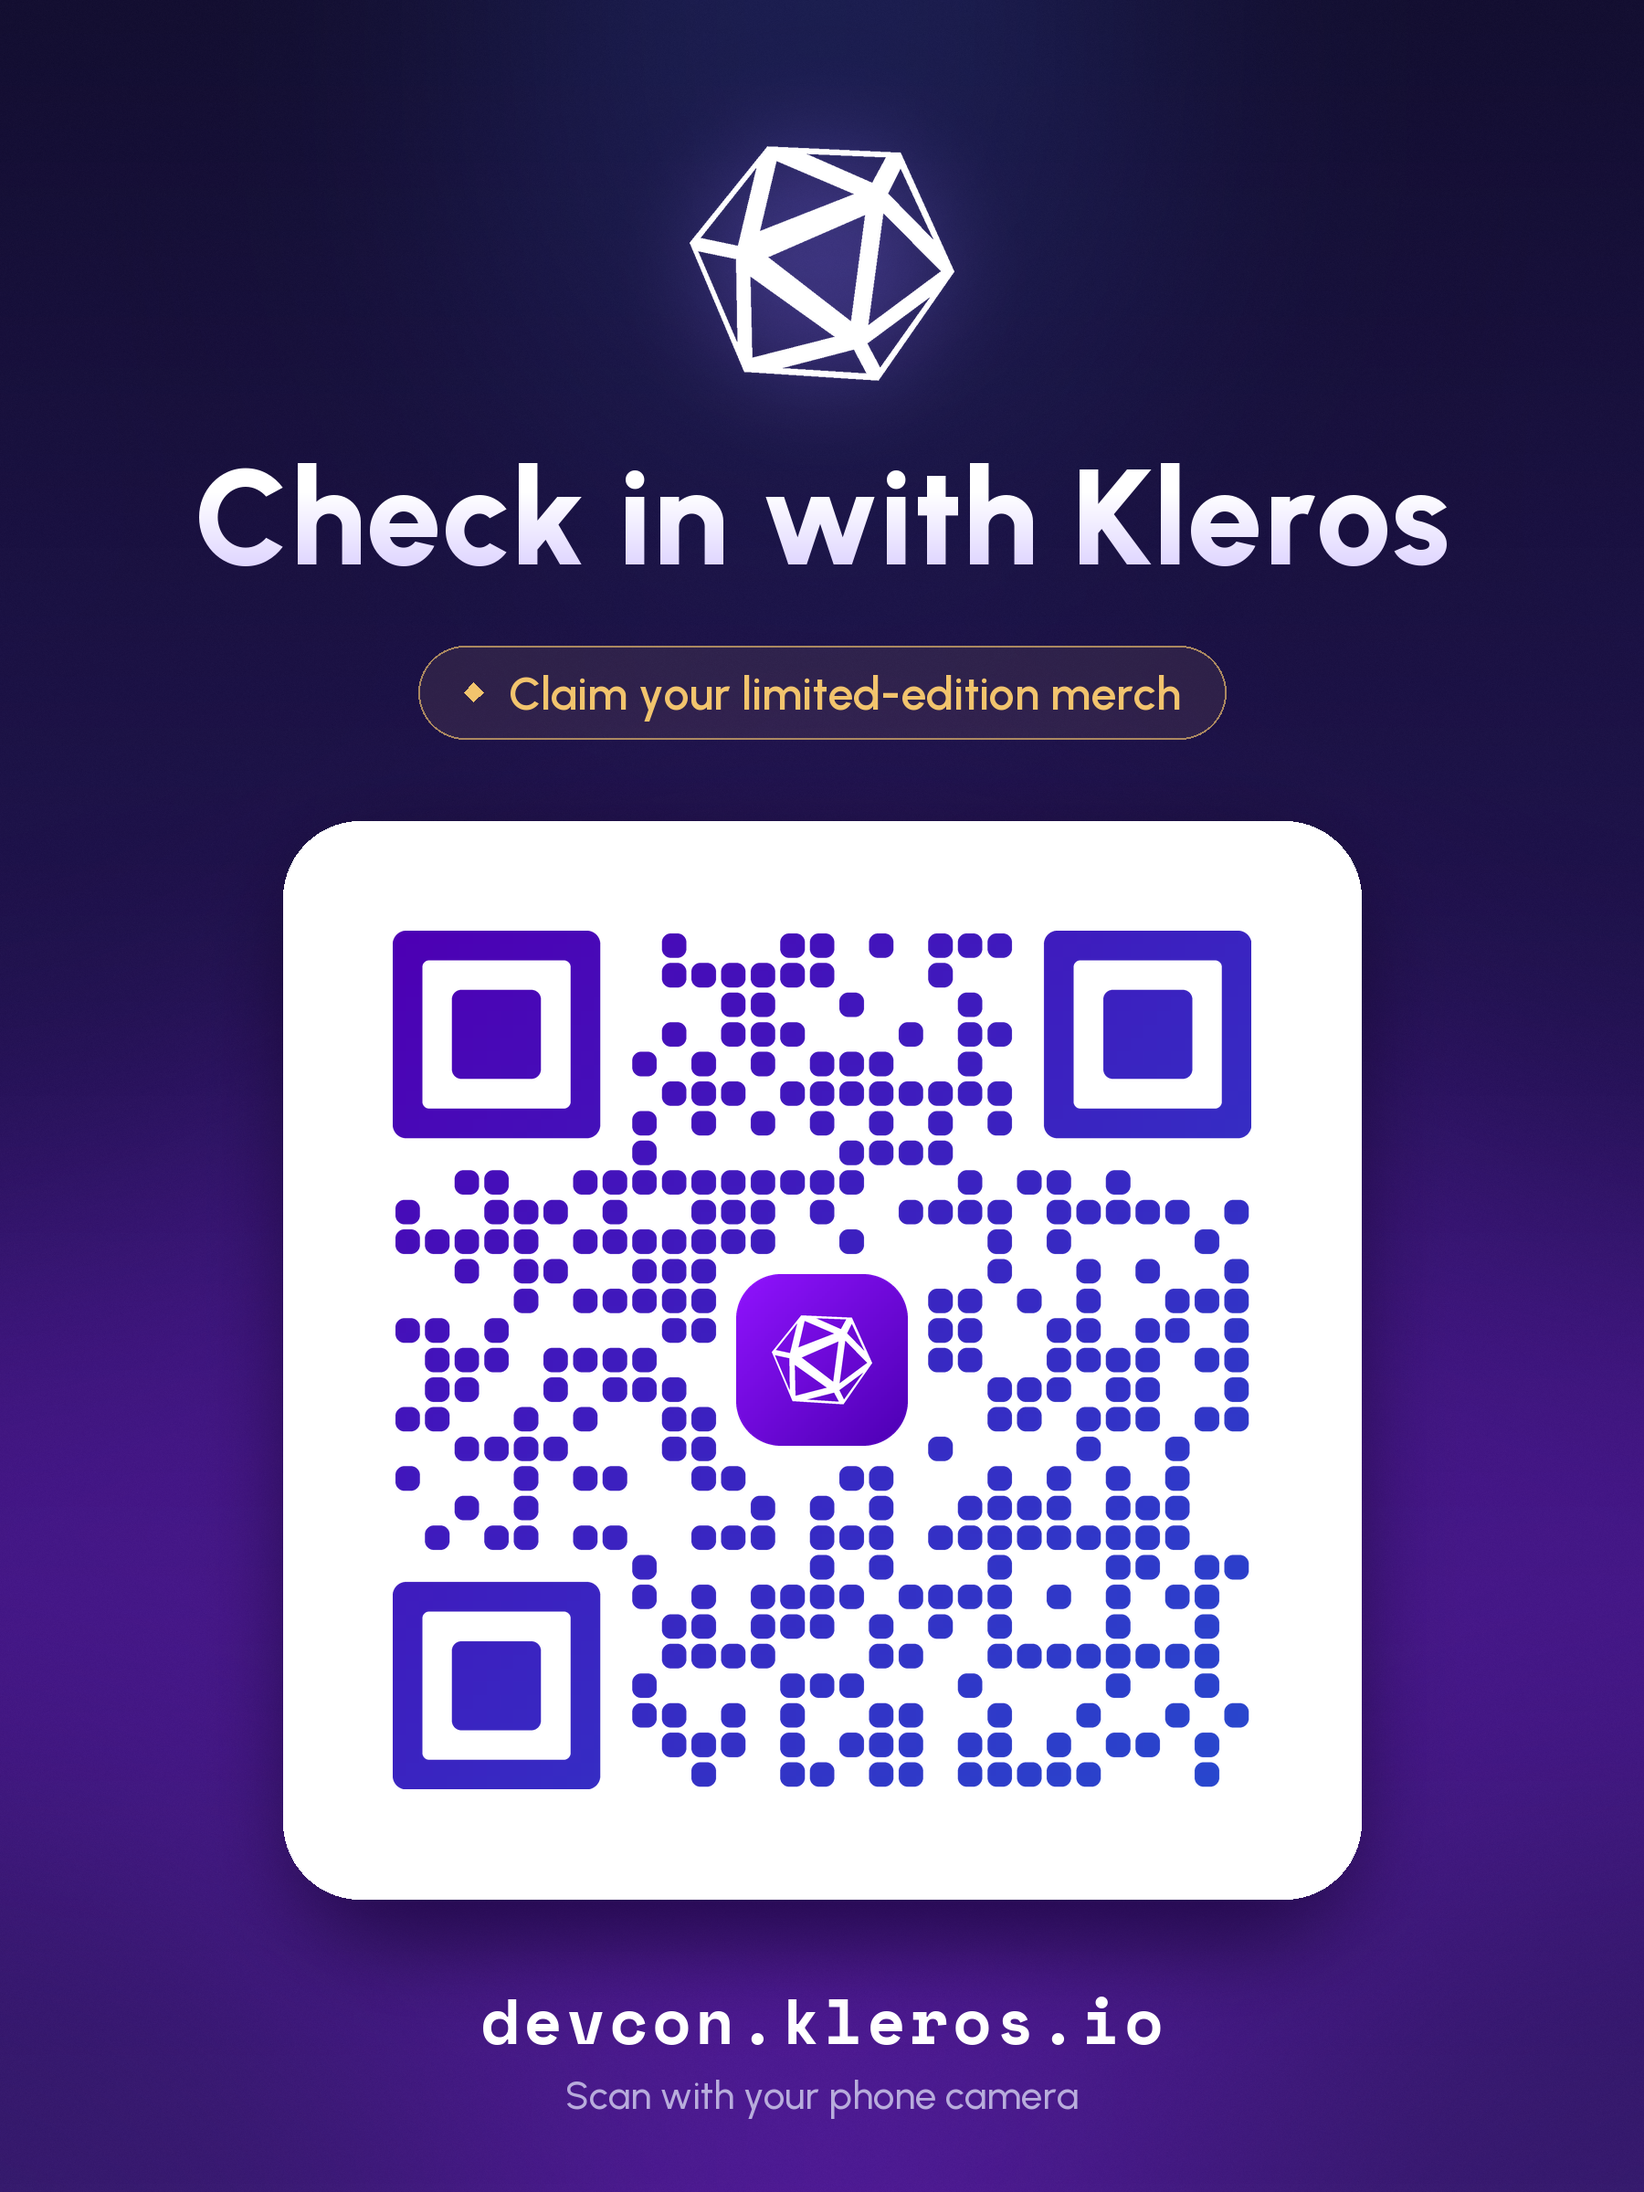
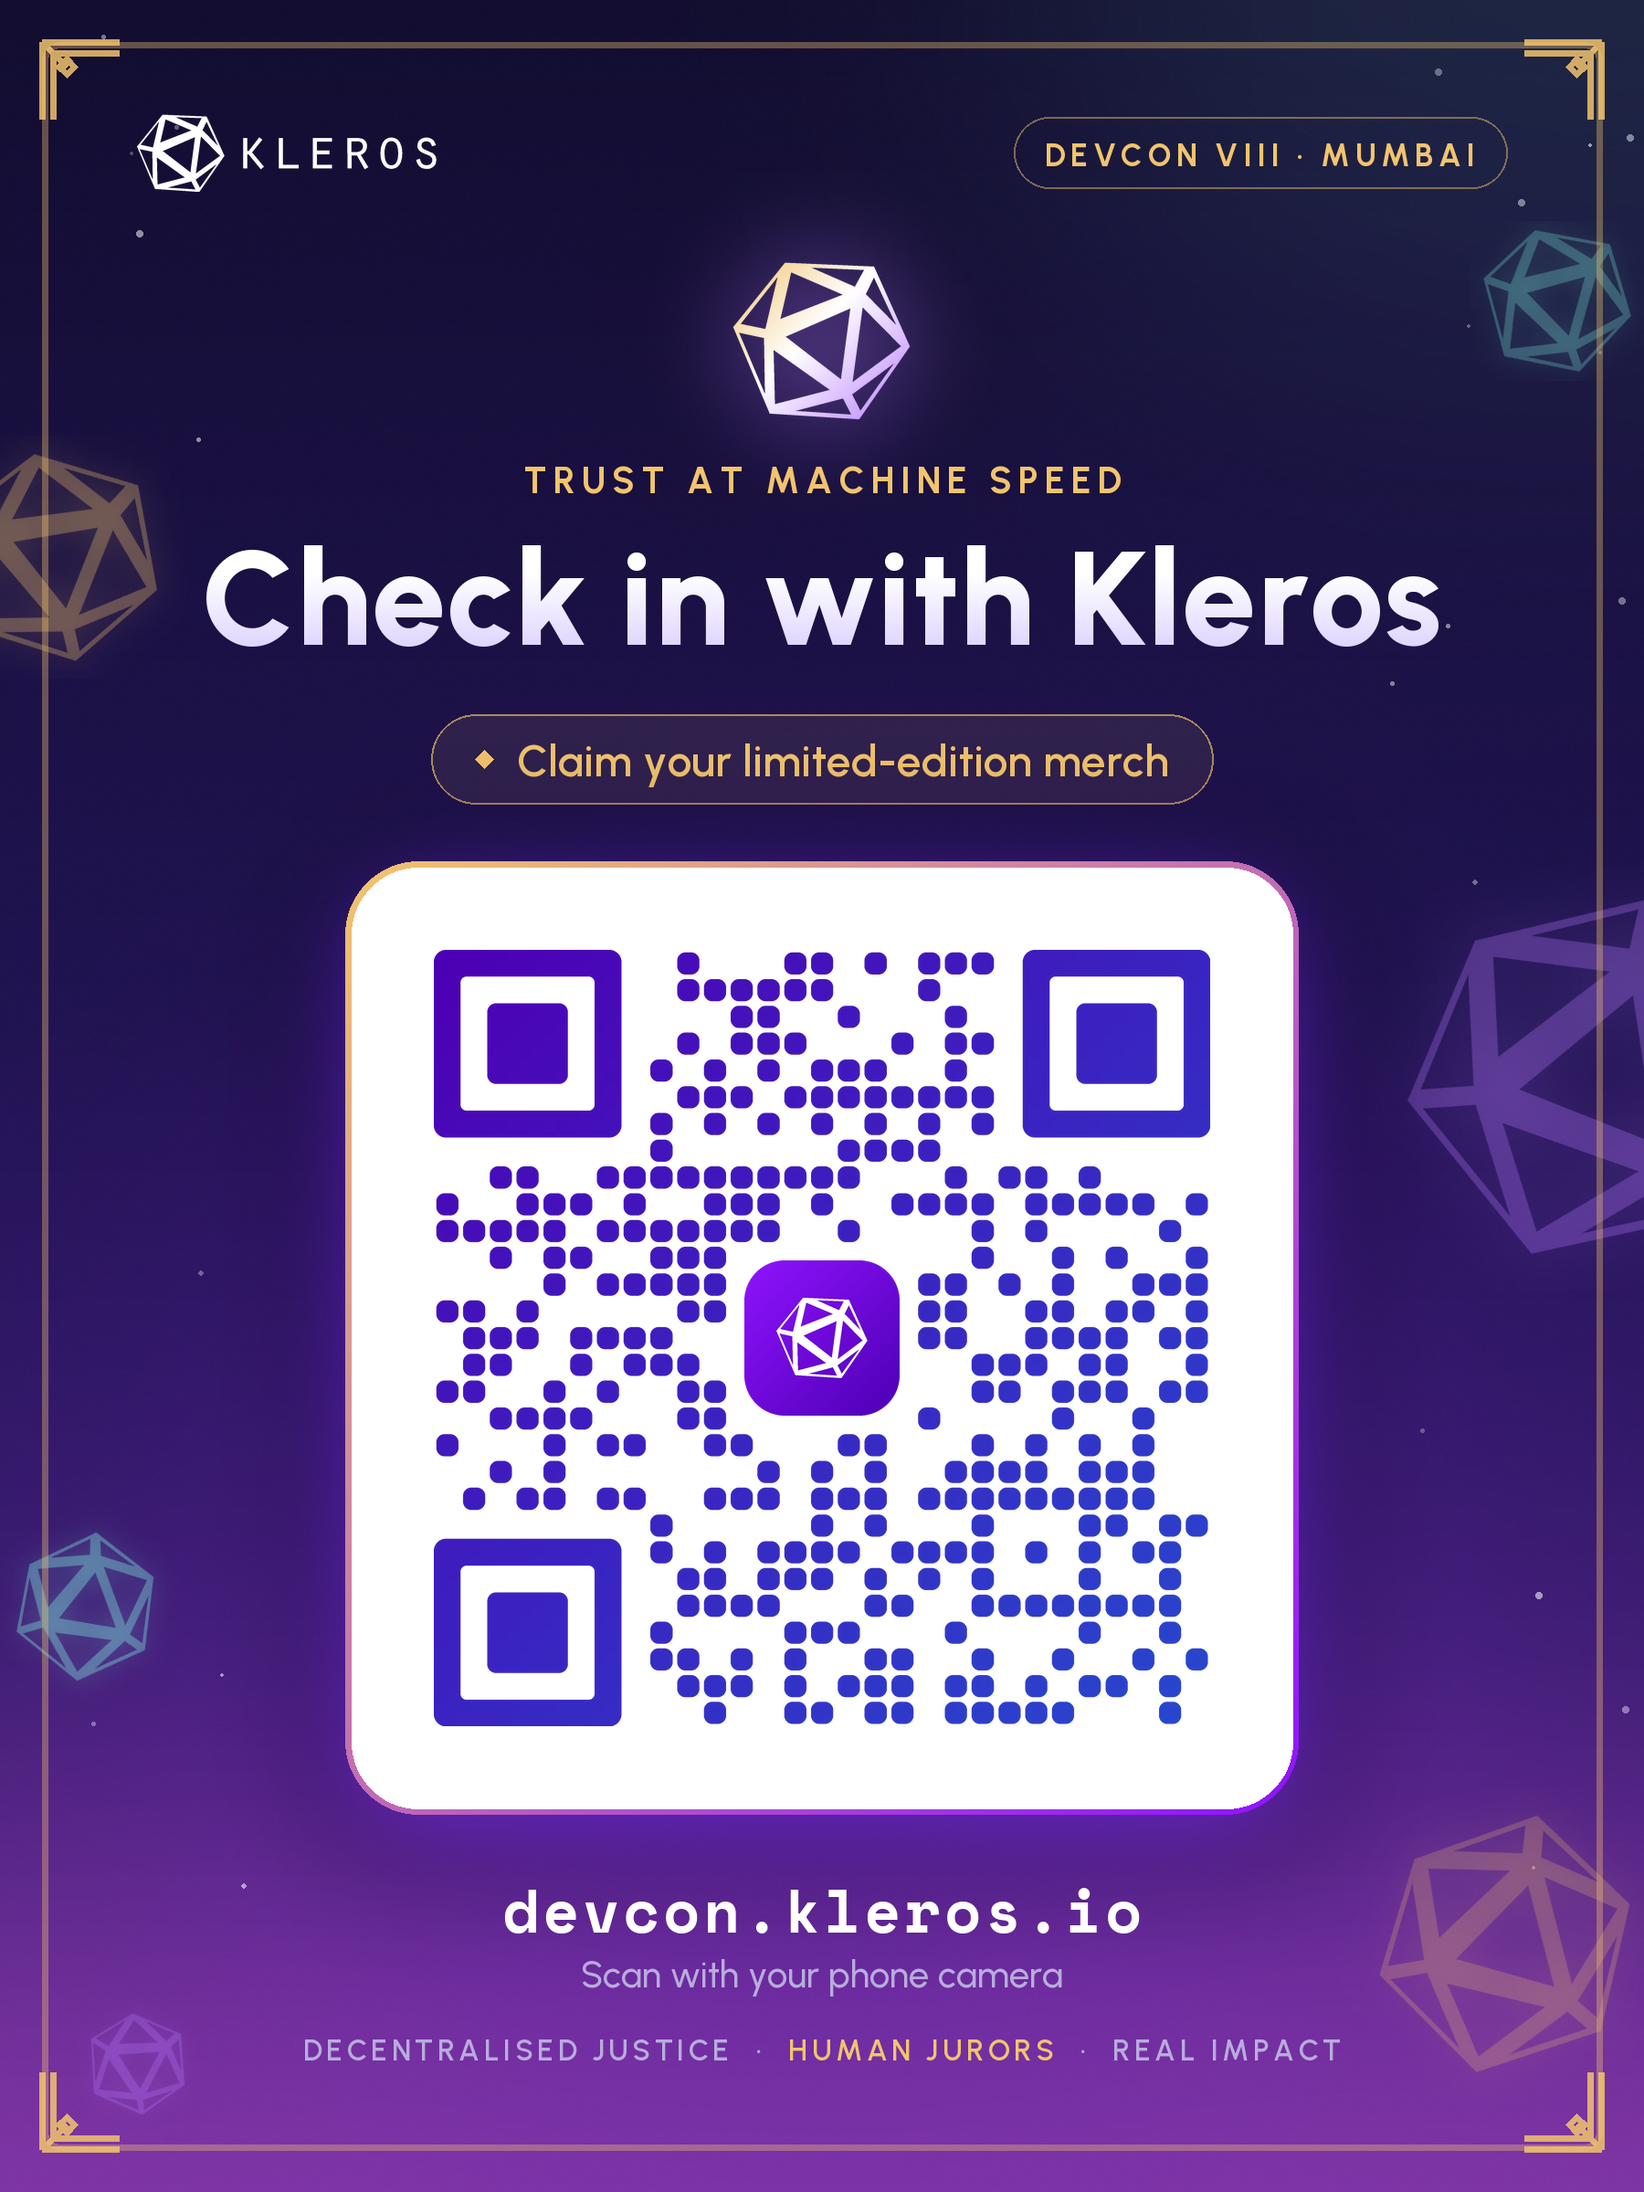
qr: poster and square in the check-in site's look (gold frame, floating icosahedrons, wordmark)

diff --git a/qr/make_qr.py b/qr/make_qr.py
@@ -31,6 +31,7 @@ FONTS = os.path.join(HERE, "fonts")
 NIGHT, NIGHT_2, DUSK = (15, 10, 46), (29, 16, 80), (52, 24, 112)
 KLEROS, KLEROS_DEEP = (144, 19, 254), (77, 0, 180)
 GOLD, LILAC, MUTED, WHITE = (242, 196, 109), (199, 182, 255), (184, 172, 220), (255, 255, 255)
+PINK, TEAL, VIOLET, SITE_DUSK = (222, 79, 208), (127, 240, 224), (183, 123, 255), (75, 35, 145)
 # QR ink: violet into the blue edge of the icosahedron (both well over 6:1 on white)
 INK_A, INK_B = (77, 0, 180), (40, 72, 206)
 # Finder-eye corner radii in modules (outer, hole, centre). Rounder eyes look softer but some
@@ -252,28 +253,237 @@ def logo(img, cx, y, width):
     return y + h
 
 
+# ---------- the check-in site's look, for the booth poster ----------
+
+def svg_subpaths(d, k, ox=0.0, oy=0.0):
+    """Absolute M/L/H/V/C/Z path data (all the Kleros logo uses) as polygons, cubics flattened."""
+    toks = re.findall(r"[MLHVCZ]|-?\d*\.?\d+(?:e-?\d+)?", d)
+    polys, cur, x, y, i, cmd = [], [], 0.0, 0.0, 0, None
+    num = lambda: float(toks[i])
+    while i < len(toks):
+        if toks[i] in "MLHVCZ":
+            cmd = toks[i]; i += 1
+            if cmd == "Z":
+                polys.append(cur); cur = []
+            continue
+        if cmd == "M" or cmd == "L":
+            x, y = num(), float(toks[i + 1]); i += 2
+            if cmd == "M" and cur:
+                polys.append(cur); cur = []
+            cur.append((x, y)); cmd = "L" if cmd == "M" else cmd
+        elif cmd == "H":
+            x = num(); i += 1; cur.append((x, y))
+        elif cmd == "V":
+            y = num(); i += 1; cur.append((x, y))
+        elif cmd == "C":
+            x1, y1, x2, y2, x3, y3 = (float(t) for t in toks[i:i + 6]); i += 6
+            for s in range(1, 13):
+                t = s / 12
+                cur.append(((1 - t) ** 3 * x + 3 * (1 - t) ** 2 * t * x1 + 3 * (1 - t) * t * t * x2 + t ** 3 * x3,
+                            (1 - t) ** 3 * y + 3 * (1 - t) ** 2 * t * y1 + 3 * (1 - t) * t * t * y2 + t ** 3 * y3))
+            x, y = x3, y3
+    if cur:
+        polys.append(cur)
+    return [[((px + ox) * k, (py + oy) * k) for px, py in p] for p in polys if len(p) > 2]
+
+
+def svg_mask(name, width):
+    """An SVG from site/assets as an alpha mask `width` px wide, filled even-odd (holes stay open)."""
+    svg = open(os.path.join(ASSETS, name), encoding="utf-8").read()
+    vw, vh = map(float, re.search(r'viewBox="0 0 ([\d.]+) ([\d.]+)"', svg).groups())
+    t = re.search(r'translate\(([\d.]+),\s*([\d.]+)\)', svg)
+    ox, oy = map(float, t.groups()) if t else (0.0, 0.0)
+    ss = 4
+    k = width * ss / vw
+    W, H = int(vw * k), int(vh * k)
+    mask = Image.new("L", (W, H), 0)
+    for d in re.findall(r'<path[^>]* d="([^"]+)"', svg):
+        for poly in svg_subpaths(d, k, ox, oy):
+            layer = Image.new("L", (W, H), 0)
+            ImageDraw.Draw(layer).polygon(poly, fill=255)
+            mask = ImageChops.logical_xor(mask.convert("1"), layer.convert("1")).convert("L")
+    mask = mask.resize((W // ss, H // ss), Image.LANCZOS)
+    return mask.crop(mask.getbbox())
+
+
+def site_background(w, h):
+    """index.html's body: night to dusk, a pink glow from the bottom, a faint teal one top right, stars."""
+    small = Image.new("RGB", (8, 256))
+    px = small.load()
+    for yy in range(256):
+        t = yy / 255
+        a, b, k = (NIGHT, NIGHT_2, t / 0.45) if t < 0.45 else (NIGHT_2, SITE_DUSK, (t - 0.45) / 0.55)
+        for xx in range(8):
+            px[xx, yy] = tuple(int(a[i] + (b[i] - a[i]) * k) for i in range(3))
+    bg = small.resize((w, h), Image.BILINEAR).convert("RGBA")
+    glow = Image.new("RGBA", (w, h), (0, 0, 0, 0))
+    gd = ImageDraw.Draw(glow)
+    gd.ellipse((w * -0.2, h * 0.72, w * 1.2, h * 1.35), fill=PINK + (95,))
+    gd.ellipse((w * 0.55, h * -0.12, w * 1.25, h * 0.22), fill=TEAL + (28,))
+    gd.ellipse((w * 0.05, h * 0.36, w * 0.95, h * 0.86), fill=KLEROS + (40,))
+    bg = Image.alpha_composite(bg, glow.filter(ImageFilter.GaussianBlur(w // 7)))
+    stars = Image.new("RGBA", (w, h), (0, 0, 0, 0))
+    sd = ImageDraw.Draw(stars)
+    import random
+    rnd = random.Random(8)                       # same stars every run
+    for _ in range(90):
+        x, y, r = rnd.uniform(0, w), rnd.uniform(0, h), rnd.choice((1.5, 2, 2, 2.5, 3.5))
+        if w * 0.16 < x < w * 0.84:              # keep the text column clear
+            continue
+        sd.ellipse((x - r, y - r, x + r, y + r), fill=WHITE + (rnd.randint(70, 150),))
+    bg = Image.alpha_composite(bg, stars)
+    grain = Image.effect_noise((w, h), 22).convert("RGBA")
+    grain.putalpha(8)
+    return Image.alpha_composite(bg, grain)
+
+
+def float_mark(img, cx, cy, width, colour, alpha, angle):
+    """One of the site's drifting icosahedrons: the flat mark, tinted, rotated, with a glow."""
+    m = svg_mask("kleros-symbol-white-flat.svg", width).rotate(angle, resample=Image.BICUBIC, expand=True)
+    tile = Image.new("RGBA", m.size, colour + (0,))
+    tile.putalpha(m.point(lambda v: v * alpha // 255))
+    glow = Image.new("RGBA", m.size, colour + (0,))
+    glow.putalpha(m.point(lambda v: v * alpha // 400).filter(ImageFilter.GaussianBlur(width // 12)))
+    pos = (int(cx - m.width / 2), int(cy - m.height / 2))
+    layer = Image.new("RGBA", img.size, (0, 0, 0, 0))
+    layer.alpha_composite(glow, (max(pos[0], 0), max(pos[1], 0)), (max(-pos[0], 0), max(-pos[1], 0)))
+    layer.alpha_composite(tile, (max(pos[0], 0), max(pos[1], 0)), (max(-pos[0], 0), max(-pos[1], 0)))
+    img.alpha_composite(layer)
+
+
+def deco_frame(img, inset, s):
+    """The thin gold frame with art-deco corners that sits around the check-in page."""
+    w, h = img.size
+    layer = Image.new("RGBA", img.size, (0, 0, 0, 0))
+    d = ImageDraw.Draw(layer)
+    line = max(2, s // 14)
+    d.rounded_rectangle((inset, inset, w - inset, h - inset), radius=s // 5, outline=GOLD + (95,), width=line)
+    corner = Image.new("RGBA", (s, s), (0, 0, 0, 0))
+    cd = ImageDraw.Draw(corner)
+    u = s / 34                                   # the site's corner is drawn on a 34-unit grid
+    c = GOLD + (215,)
+    cd.line([(5 * u, 33 * u), (5 * u, 5 * u), (33 * u, 5 * u)], fill=c, width=line)
+    cd.line([(9 * u, 33 * u), (9 * u, 9 * u), (33 * u, 9 * u)], fill=c, width=line)
+    cd.line([(5 * u, 5 * u), (14 * u, 14 * u)], fill=c, width=line)
+    cd.polygon([(14 * u, 9.8 * u), (18.2 * u, 14 * u), (14 * u, 18.2 * u), (9.8 * u, 14 * u)], outline=c, width=line)
+    o = inset - int(5 * u)
+    layer.alpha_composite(corner, (o, o))
+    layer.alpha_composite(corner.transpose(Image.FLIP_LEFT_RIGHT), (w - o - s, o))
+    layer.alpha_composite(corner.transpose(Image.FLIP_TOP_BOTTOM), (o, h - o - s))
+    layer.alpha_composite(corner.transpose(Image.ROTATE_180), (w - o - s, h - o - s))
+    img.alpha_composite(layer)
+
+
+def white_wordmark(img, x, y, width):
+    m = svg_mask("logo-kleros-white.svg", width)
+    tile = Image.new("RGBA", m.size, WHITE + (0,))
+    tile.putalpha(m)
+    img.alpha_composite(tile, (int(x), int(y)))
+    return m.size
+
+
+def badge(img, right, cy, text, f):
+    """Gold hairline pill, right-aligned, like the edition badge in the site header."""
+    tracking = f.size * 0.16
+    tw = text_width(text, f, tracking)
+    pad, h = f.size * 1.0, int(f.size * 2.3)
+    x0 = int(right - tw - pad * 2)
+    layer = Image.new("RGBA", img.size, (0, 0, 0, 0))
+    ImageDraw.Draw(layer).rounded_rectangle((x0, cy - h // 2, right, cy + h // 2), radius=h // 2, outline=GOLD + (120,), width=max(2, f.size // 14))
+    img.alpha_composite(layer)
+    asc, desc = f.getmetrics()
+    draw_text(img, (x0 + pad, cy - (asc + desc) / 2 + f.size * 0.08), text, f, GOLD, tracking)
+
+
+def gradient_gem(img, cx, y, width):
+    """The site's hero mark: the icosahedron in gold, white and violet, glowing."""
+    m = svg_mask("kleros-symbol-white-flat.svg", width)
+    w, h = m.size
+    fill = Image.new("RGB", (w, h))
+    p = fill.load()
+    for yy in range(h):
+        for xx in range(w):
+            t = (xx / w * 0.53 + yy / h * 0.47)
+            a, b, k = (GOLD, WHITE, t / 0.45) if t < 0.45 else (WHITE, VIOLET, (t - 0.45) / 0.55)
+            p[xx, yy] = tuple(int(a[i] + (b[i] - a[i]) * k) for i in range(3))
+    fill = fill.convert("RGBA")
+    fill.putalpha(m)
+    halo = Image.new("RGBA", img.size, (0, 0, 0, 0))
+    hd = ImageDraw.Draw(halo)
+    r = width * 0.7
+    hd.ellipse((cx - r, y + h / 2 - r, cx + r, y + h / 2 + r), fill=VIOLET + (90,))
+    img.alpha_composite(halo.filter(ImageFilter.GaussianBlur(width // 3)))
+    img.alpha_composite(fill, (int(cx - w / 2), int(y)))
+    return y + h
+
+
+def framed_qr_card(img, x0, y0, card, qr):
+    """White QR card inside a thin gold-to-pink-to-violet ring, with a violet glow behind."""
+    ring = max(6, card // 130)
+    glow = Image.new("RGBA", img.size, (0, 0, 0, 0))
+    ImageDraw.Draw(glow).rounded_rectangle((x0 - 30, y0 - 10, x0 + card + 30, y0 + card + 50), radius=card // 12, fill=(120, 40, 255, 150))
+    img.alpha_composite(glow.filter(ImageFilter.GaussianBlur(card // 16)))
+    grad = gradient((card + 2 * ring, card + 2 * ring), GOLD, KLEROS).convert("RGBA")
+    rm = Image.new("L", grad.size, 0)
+    ImageDraw.Draw(rm).rounded_rectangle((0, 0, grad.width - 1, grad.height - 1), radius=card // 14 + ring, fill=255)
+    grad.putalpha(rm)
+    img.alpha_composite(grad, (x0 - ring, y0 - ring))
+    layer = Image.new("RGBA", img.size, (0, 0, 0, 0))
+    ImageDraw.Draw(layer).rounded_rectangle((x0, y0, x0 + card, y0 + card), radius=card // 14, fill=WHITE + (255,))
+    img.alpha_composite(layer)
+    img.alpha_composite(qr_image(qr), (x0 + (card - qr) // 2, y0 + (card - qr) // 2))
+
+
+def tagline(img, y, f):
+    """The site footer: DECENTRALISED JUSTICE · HUMAN JURORS · REAL IMPACT, the middle in gold."""
+    parts = [("DECENTRALISED JUSTICE  ·  ", MUTED), ("HUMAN JURORS", GOLD), ("  ·  REAL IMPACT", MUTED)]
+    tr = f.size * 0.14
+    total = sum(text_width(t, f, tr) for t, _ in parts) + tr * 2
+    x = (img.width - total) / 2
+    for t, c in parts:
+        draw_text(img, (x, y), t, f, c, tr)
+        x += text_width(t, f, tr) + tr
+
+
 def poster():
     W, H = 1800, 2400
-    img = background(W, H)
-    y = logo(img, W / 2, 160, 290)
-    gradient_headline(img, y + 60, HEADLINE, urbanist(148))
-    y = perk_pill(img, y + 290, PERK, urbanist(50, "SemiBold"))
-    card, qr = 1180, 940
-    qr_card(img, (W - card) // 2, y + 90, card, qr)
-    y += 90 + card
-    centered(img, y + 80, DOMAIN, mono(70), WHITE, tracking=4)
-    centered(img, y + 190, CAPTION, urbanist(42, "Medium"), MUTED)
+    img = site_background(W, H)
+    for cx, cy, w, colour, a, ang in ((60, 610, 250, GOLD, 80, -14), (1745, 1180, 430, VIOLET, 75, 16),
+                                      (95, 1760, 170, TEAL, 95, 28), (1705, 330, 175, TEAL, 70, -8),
+                                      (1650, 2130, 300, GOLD, 60, 22), (150, 2260, 120, VIOLET, 70, -20)):
+        float_mark(img, cx, cy, w, colour, a, ang)
+    deco_frame(img, 46, 102)
+
+    ww, wh = white_wordmark(img, 150, 125, 330)
+    badge(img, W - 150, 125 + wh / 2, "DEVCON VIII · MUMBAI", urbanist(34, "Bold"))
+
+    y = gradient_gem(img, W / 2, 285, 205)
+    centered(img, y + 40, "TRUST AT MACHINE SPEED", urbanist(40, "Bold"), GOLD, tracking=7)
+    gradient_headline(img, y + 105, HEADLINE, urbanist(146))
+    y = perk_pill(img, y + 320, PERK, urbanist(48, "SemiBold"))
+    card, qr = 1030, 850
+    framed_qr_card(img, (W - card) // 2, y + 70, card, qr)
+    y += 70 + card
+    centered(img, y + 62, DOMAIN, mono(66), WHITE, tracking=4)
+    centered(img, y + 158, CAPTION, urbanist(40, "Medium"), MUTED)
+    tagline(img, H - 175, urbanist(32, "SemiBold"))
     return img.convert("RGB")
 
 
 def square():
     W = H = 1500
-    img = background(W, H)
-    gradient_headline(img, 95, HEADLINE, urbanist(112))
-    y = perk_pill(img, 265, PERK, urbanist(40, "SemiBold"))
-    card, qr = 900, 720
-    qr_card(img, (W - card) // 2, y + 60, card, qr)
-    centered(img, y + 60 + card + 58, DOMAIN, mono(56), WHITE, tracking=3)
+    img = site_background(W, H)
+    for cx, cy, w, colour, a, ang in ((55, 470, 200, GOLD, 80, -14), (1450, 900, 300, VIOLET, 75, 16),
+                                      (80, 1220, 140, TEAL, 95, 28), (1420, 260, 140, TEAL, 70, -8)):
+        float_mark(img, cx, cy, w, colour, a, ang)
+    deco_frame(img, 38, 86)
+    ww, wh = white_wordmark(img, 115, 95, 260)
+    badge(img, W - 115, 95 + wh / 2, "DEVCON VIII · MUMBAI", urbanist(28, "Bold"))
+    gradient_headline(img, 200, HEADLINE, urbanist(112))
+    y = perk_pill(img, 362, PERK, urbanist(38, "SemiBold"))
+    card, qr = 820, 676
+    framed_qr_card(img, (W - card) // 2, y + 52, card, qr)
+    centered(img, y + 52 + card + 46, DOMAIN, mono(54), WHITE, tracking=3)
     return img.convert("RGB")
 
 
